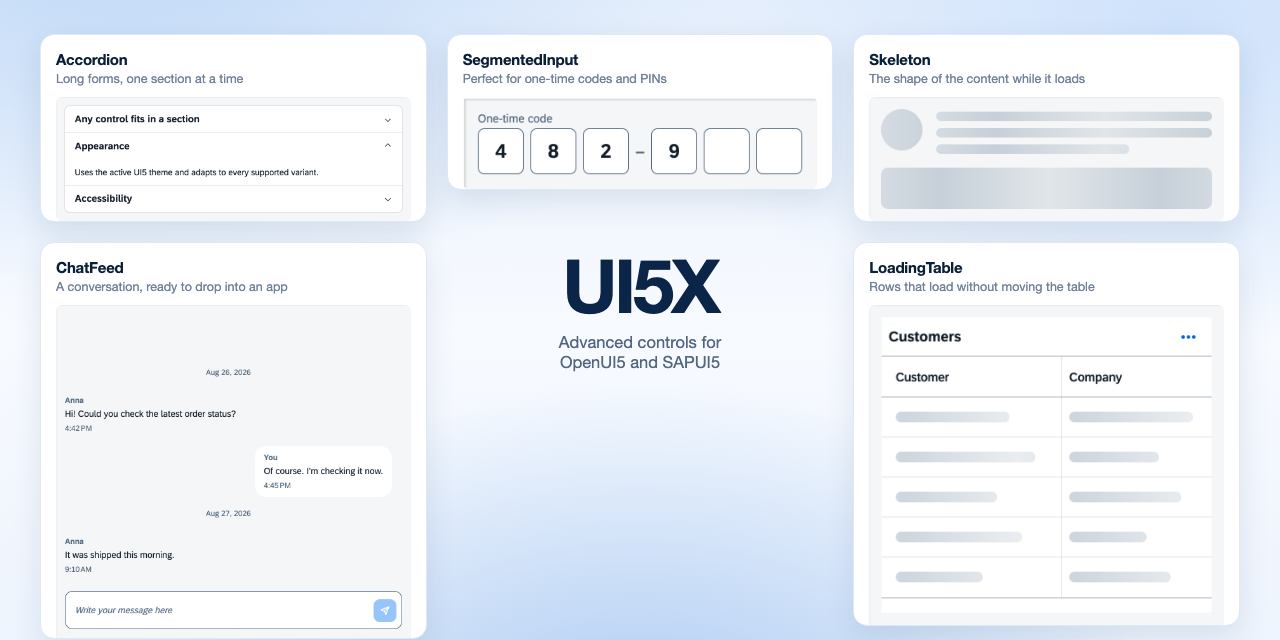
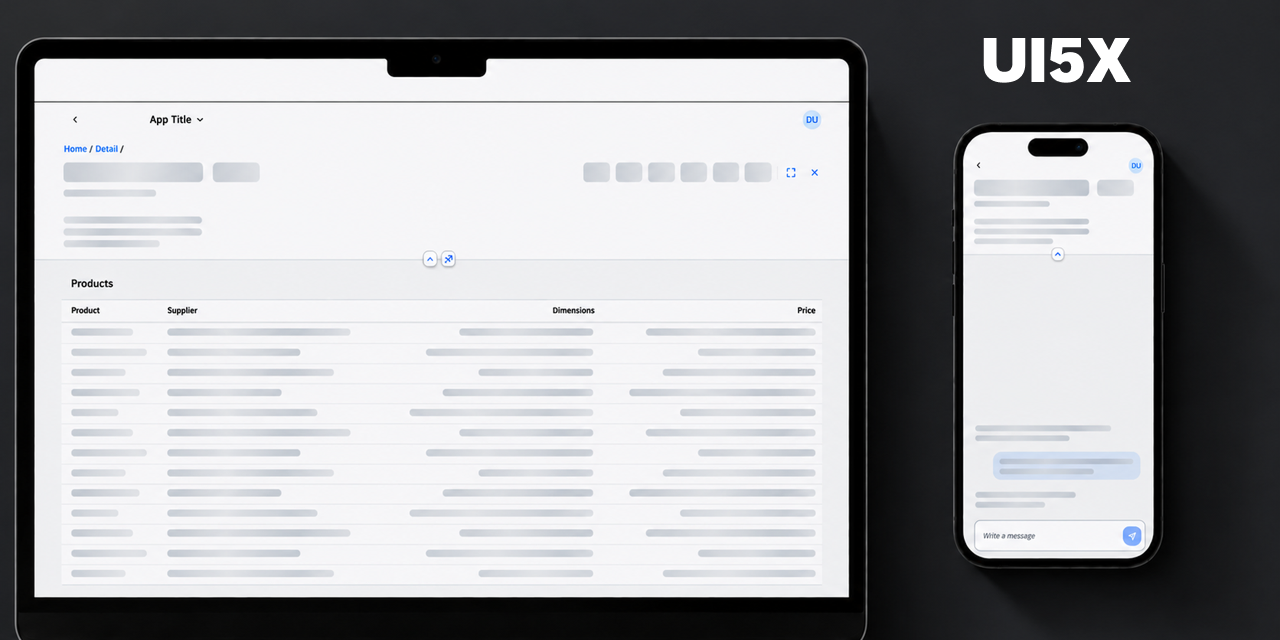
docs: put the social card to work
The card sat in docs/assets referenced from nowhere. It is now the header
of the README, which is also what the community catalogue renders, and the
Open Graph image of the demo: pasting the demo link into Slack or LinkedIn
showed a bare URL until now, which is where the library is about to be
announced. The site build copies the file next to index.html, since preview
services fetch it from the address the tags name.

The image itself is the device version, replacing the five-panel card. The
earlier one remains in history at dc7327a.

diff --git a/test/ui5x/app/index.html b/test/ui5x/app/index.html
@@ -7,6 +7,17 @@
 
     <title>UI5X</title>
 
+    <meta name="description" content="An OpenUI5 and SAPUI5 library of composite controls, with theming, accessibility and state handling built in.">
+
+    <meta property="og:type" content="website">
+    <meta property="og:title" content="UI5X">
+    <meta property="og:description" content="An OpenUI5 and SAPUI5 library of composite controls, with theming, accessibility and state handling built in.">
+    <meta property="og:url" content="https://rdisomma.github.io/ui5x/">
+    <meta property="og:image" content="https://rdisomma.github.io/ui5x/social-preview.png">
+    <meta property="og:image:width" content="1280">
+    <meta property="og:image:height" content="640">
+    <meta name="twitter:card" content="summary_large_image">
+
     <style>
         html, body { height: 100%; margin: 0; }
     </style>

diff --git a/README.md b/README.md
@@ -4,6 +4,8 @@
 
 An OpenUI5 and SAPUI5 library of composite controls, with theming, accessibility and state handling built in.
 
+![UI5X](docs/assets/social-preview.png)
+
 **[Open the live demo](https://rdisomma.github.io/ui5x/)** to see every control and have fun
 customising how each one behaves.
 
